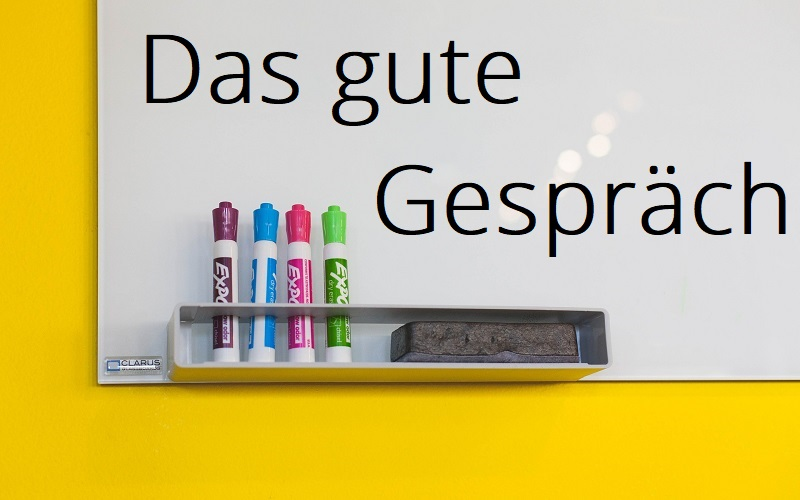
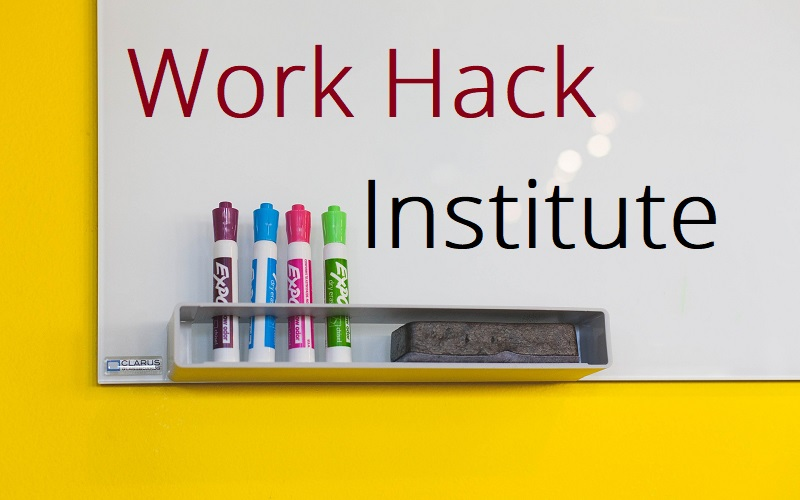
Vereinheitliche den Stils aller Seiten.

Changed region(s): [[0.1562, 0.06, 0.75, 0.27], [0.4375, 0.33, 1.0, 0.51]]

diff --git a/index.html b/index.html
@@ -69,14 +69,14 @@
       <div class="container">
         <h2 class="text-center">Willkommen auf den Seiten der New Work Academy</h2>
         <div class="intro-text text-center">
-          <span class="emph">agil - systemisch - gewaltfrei</span>
+          <span class="emph">Unternehemenskultur - agile Transformation - Digitalisierung</span>
         </div>
         <hr class="star-primary">
         <div class="row">
           <div class="col-12 text-justify">
-            <p class="hyphenate lead">Fließtext.
-              <br> Fließtext.
-              <br>Fließtext.
+            <p class="hyphenate lead">Wir unterstützen Sie im Aufbau oder Verändern Ihrer Unternehmenskultur.
+              <br>Wir stehen Ihnen als Coach für die Begleitung Ihrer agilen Transformation - evolutionär oder erruptiv - zur Verfügung.
+              <br>Unsere Institute bilden Multiplikator*innen aus, um den Herausforderungen der Digitalisierung gerecht zu werden.
             </p>
           </div>
         </div>
@@ -105,7 +105,7 @@
 					<img src="img/portfolio/titel.jpg" class="img-fluid" alt="WerdeAgileCoach@Berlin" title="mehr Info...">
 					</a>
 					<br>
-					<p class="hyphenate moreinfo" title="mehr Info..." onclick="werdeagilecoach.html"> Sie suchen eine Weiterbildung oder Ausbildung zum Agile Coach? Nehmen Sie an unserer 4in1 Fortbildung im schönen Berlin Teil: Agil - Systemisch - Gewaltfrei!
+					<p> Sie suchen eine Weiterbildung oder Ausbildung zum Agile Coach? Nehmen Sie an unserer 4in1 Fortbildung im schönen Berlin Teil: Agil - Systemisch - Gewaltfrei!
 					</p>
 					<a href="werdeagilecoach.html">mehr Info...</a>
 				  </div>
@@ -121,7 +121,7 @@
 					<img src="img/portfolio/isbp.jpg" class="img-fluid" alt="isbo" title="mehr Info...">
 					</a>
 					<br>
-					<p class="hyphenate moreinfo" title="mehr Info..." onclick="https://humanistisch.de/sites/humanistisch.de/files/humanistische-akademie-berlin-brandenburg/docs/2017/07/angebote_isbp.pdf">Das ispb Institut für Systemische Beratung und Pädagogik wurde mit dem Ziel gegründet, die Bildungsarbeit der Humanistischen Akademie Berlin-Brandenburg e.V. zu bereichern. Wir qualifizieren Absolvent_innen geisteswissenschaftlicher Studiengänge.
+					<p>Das ispb Institut für Systemische Beratung und Pädagogik wurde mit dem Ziel gegründet, die Bildungsarbeit der Humanistischen Akademie Berlin-Brandenburg e.V. zu bereichern. Wir qualifizieren Absolvent_innen geisteswissenschaftlicher Studiengänge.
 					</p>
 					<a href="https://humanistisch.de/sites/humanistisch.de/files/humanistische-akademie-berlin-brandenburg/docs/2017/07/angebote_isbp.pdf" >mehr Info...</a>
 							</div>
@@ -137,7 +137,7 @@
 					<img src="img/portfolio/coachwork.jpg" class="img-fluid" alt="isbo" title="mehr Info...">
 					</a>
 					<br>
-					<p class="hyphenate moreinfo" title="mehr Info..." onclick="https://coach-work.de/index.php/unsere-leistungen/">CoachWork unterstützt Sie auf dem Weg zu Ihrem erfolgreichen Produkt. Unsere Stärken: Prozessgestaltung, Workshops, Trainings, Mediation, Organisationsentwicklung und agiles Arbeiten.
+					<p>CoachWork unterstützt Sie auf dem Weg zu Ihrem erfolgreichen Produkt. Unsere Stärken: Prozessgestaltung, Workshops, Trainings, Mediation, Organisationsentwicklung und agiles Arbeiten.
 					</p>
 					<a href="https://coach-work.de/index.php/unsere-leistungen/" >mehr Info...</a>
 							</div>
@@ -146,14 +146,14 @@
 				<div class="col-lg-3 col-md-6 col-sm-9 mx-auto">
 						<div class="card">
 							<div class="card-header">
-								<h3>Das gute Gespräch</h3>
+								<h3>Work Hack Institute</h3>
 							</div>
 							<div class="card-block text-justify">
 								<a href="https://www.gewaltfrei.de/gk802/ttt.php?t=606">
 					<img src="img/portfolio/institut2.jpg" class="img-fluid" alt="isbo" title="mehr Info...">
 					</a>
 					<br>
-					<p class="hyphenate moreinfo" title="mehr Info..." onclick="https://www.gewaltfrei.de/gk802/ttt.php?t=606">Teams ohne Differenzen und Konflikte - wäre diese Utopie nicht zumindest wünschenswert? Nein! Denn Veränderungen resultieren aus Krisen, durch die wir lernen, Schuldzuweisungen, Vorwürfe und Werturteile in eine gewaltfreie Sprache zu übersetzen.
+					<p>Die Zukunft der Arbeit erfordert mehr Innovation. Wir helfen Ihnen mit Design Thinking und weiteren Kreativmethoden.
 					</p>
 					<a href="https://www.gewaltfrei.de/gk802/ttt.php?t=606" >mehr Info...</a>
 							</div>
@@ -761,6 +761,8 @@
         <hr class="star-primary">
         <div class="row">
           <div class="col-md-3">
+				<a href="https://workhackacademy.de/">New Work Academy</a>
+				<br>
 				<a href="https://humanistisch.de/x/akademie-bb">Humanistische Akademie Berlin </a>
           </div>
           <div class="col-md-3">

diff --git a/anmeldung.html b/anmeldung.html
@@ -29,7 +29,7 @@
       <div class="container">
         <a class="navbar-brand js-scroll-trigger" href="index.html#page-top">Werde Agile Coach</a>
         <button class="navbar-toggler navbar-toggler-right" type="button" data-toggle="collapse" data-target="#navbarResponsive" aria-controls="navbarResponsive" aria-expanded="false" aria-label="Toggle navigation">
-          Verzeichnis
+          Index
           <i class="fa fa-bars"></i>
         </button>
         <div class="collapse navbar-collapse" id="navbarResponsive">
@@ -98,6 +98,8 @@
         <hr class="star-primary">
         <div class="row">
           <div class="col-md-3">
+				<a href="https://workhackacademy.de/">New Work Academy</a>
+				<br>
 				<a href="https://humanistisch.de/x/akademie-bb">Humanistische Akademie Berlin </a>
           </div>
           <div class="col-md-3">

diff --git a/doppelt.html b/doppelt.html
@@ -29,7 +29,7 @@
       <div class="container">
         <a class="navbar-brand js-scroll-trigger" href="index.html#page-top">Werde Agile Coach</a>
         <button class="navbar-toggler navbar-toggler-right" type="button" data-toggle="collapse" data-target="#navbarResponsive" aria-controls="navbarResponsive" aria-expanded="false" aria-label="Toggle navigation">
-          Verzeichnis
+          Index
           <i class="fa fa-bars"></i>
         </button>
         <div class="collapse navbar-collapse" id="navbarResponsive">
@@ -98,6 +98,8 @@
         <hr class="star-primary">
         <div class="row">
           <div class="col-md-3">
+				<a href="https://workhackacademy.de/">New Work Academy</a>
+				<br>
 				<a href="https://humanistisch.de/x/akademie-bb">Humanistische Akademie Berlin </a>
           </div>
           <div class="col-md-3">

diff --git a/fehler.html b/fehler.html
@@ -29,7 +29,7 @@
       <div class="container">
         <a class="navbar-brand js-scroll-trigger" href="index.html#page-top">Werde Agile Coach</a>
         <button class="navbar-toggler navbar-toggler-right" type="button" data-toggle="collapse" data-target="#navbarResponsive" aria-controls="navbarResponsive" aria-expanded="false" aria-label="Toggle navigation">
-          Verzeichnis
+          Index
           <i class="fa fa-bars"></i>
         </button>
         <div class="collapse navbar-collapse" id="navbarResponsive">
@@ -99,6 +99,8 @@
         <hr class="star-primary">
         <div class="row">
           <div class="col-md-3">
+				<a href="https://workhackacademy.de/">New Work Academy</a>
+				<br>
 				<a href="https://humanistisch.de/x/akademie-bb">Humanistische Akademie Berlin </a>
           </div>
           <div class="col-md-3">

diff --git a/erfolgreich.html b/erfolgreich.html
@@ -29,7 +29,7 @@
       <div class="container">
         <a class="navbar-brand js-scroll-trigger" href="index.html#page-top">Werde Agile Coach</a>
         <button class="navbar-toggler navbar-toggler-right" type="button" data-toggle="collapse" data-target="#navbarResponsive" aria-controls="navbarResponsive" aria-expanded="false" aria-label="Toggle navigation">
-          Verzeichnis
+          Index
           <i class="fa fa-bars"></i>
         </button>
         <div class="collapse navbar-collapse" id="navbarResponsive">
@@ -98,6 +98,8 @@
         <hr class="star-primary">
         <div class="row">
          <div class="col-md-3">
+				<a href="https://workhackacademy.de/">New Work Academy</a>
+				<br>
 				<a href="https://humanistisch.de/x/akademie-bb">Humanistische Akademie Berlin </a>
           </div>
           <div class="col-md-3">

diff --git a/werdeagilecoach.html b/werdeagilecoach.html
@@ -743,6 +743,8 @@ Im Sinne eines Humanistischen Weltbildes sind Agile Coaches Skeptiker*innen. Sie
         <hr class="star-primary">
         <div class="row">
           <div class="col-md-3">
+				<a href="https://workhackacademy.de/">New Work Academy</a>
+				<br>
 				<a href="https://humanistisch.de/x/akademie-bb">Humanistische Akademie Berlin </a>
           </div>
           <div class="col-md-3">
